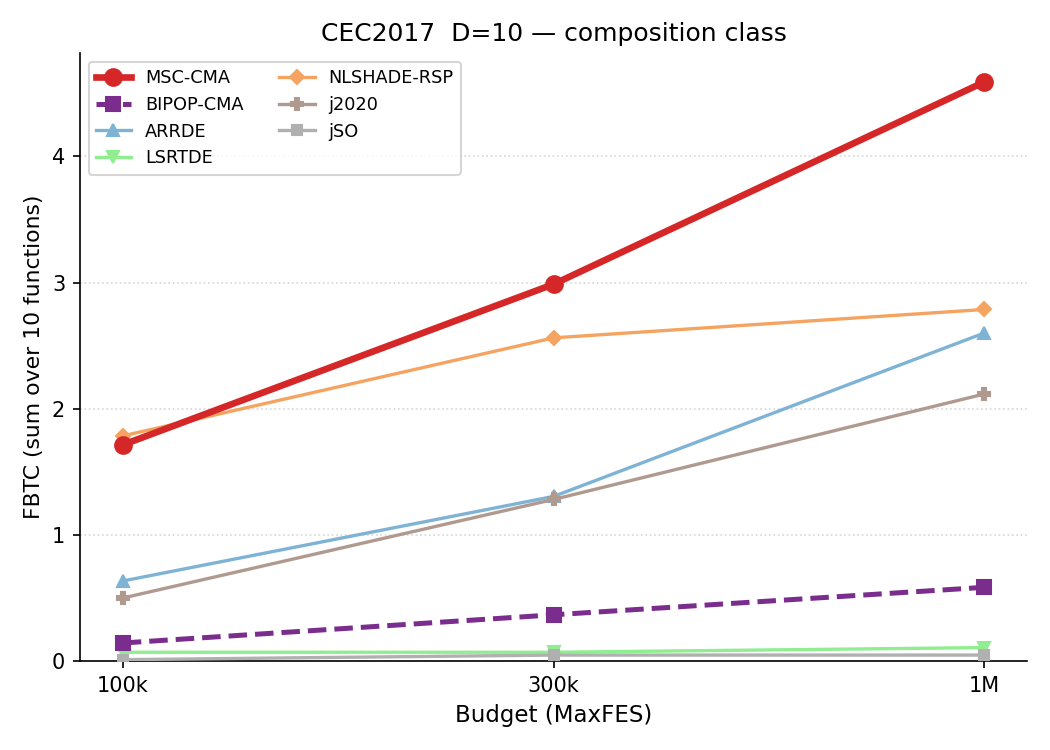
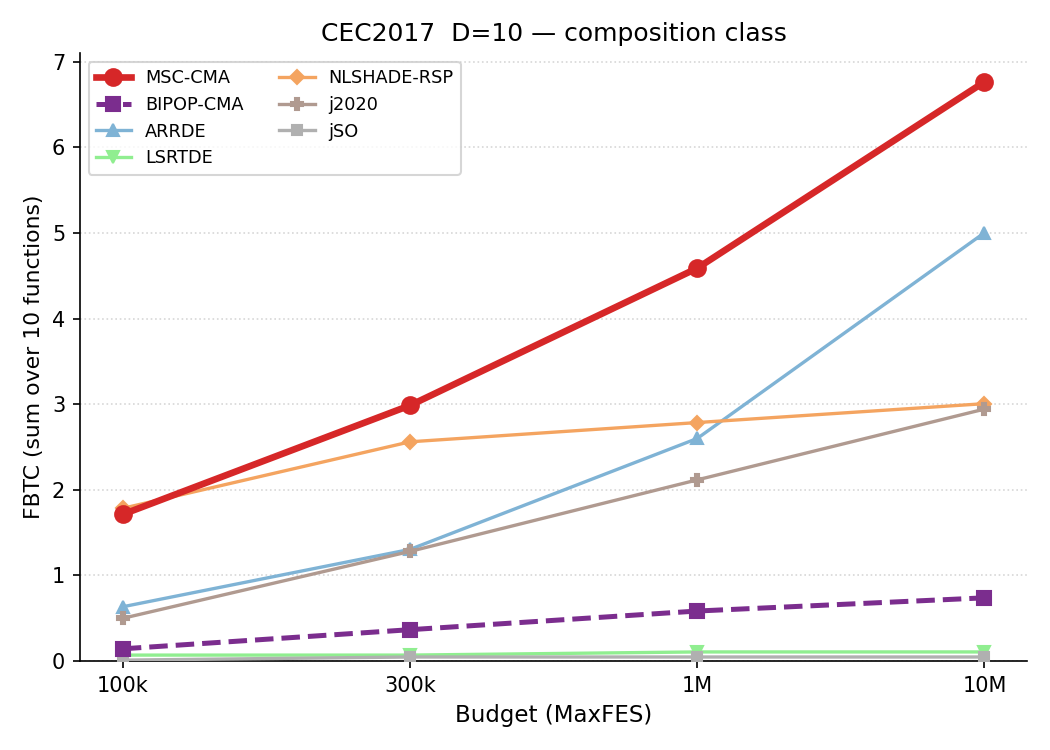
suite_report: regen cross-dimension rank/budget figures + READMEs (cec2014/cec2017/cec2020/cec2022)

diff --git a/experiments/cec2017/README.md b/experiments/cec2017/README.md
@@ -2,7 +2,35 @@
 
 Aggregated sums by function category, across dimensions. **Bold** = best in row. For simplicity the suite is presented per dimension.
 
-Official budgets — 10D: 100,000, 30D: 300,000.
+Official budgets — 2D: 20,000, 10D: 100,000, 30D: 300,000.
+
+## Ranking — D=2
+
+Parallel-coordinate rank on four aggregate metrics (worst-SUM, median-SUM, coverage, best-SUM). Best value at the top of each axis; MSC-CMA in red.
+
+<table>
+<tr>
+<td><img src="d2/rank_d2_basic.png" width="300" alt="Basic"></td>
+<td><img src="d2/rank_d2_composition.png" width="300" alt="Composition"></td>
+</tr>
+<tr>
+<td align="center">Basic</td>
+<td align="center">Composition</td>
+</tr>
+</table>
+
+## Budget scaling — D=2
+
+FBTC by budget, monotone envelope; higher is better.
+
+<table>
+<tr>
+<td><img src="d2/budget_d2_basic.png" width="300" alt="Basic"></td>
+</tr>
+<tr>
+<td align="center">Basic</td>
+</tr>
+</table>
 
 ## Ranking — D=10
 
@@ -76,10 +104,12 @@ FBTC by budget, monotone envelope; higher is better. Composition is shown as *me
 
 | Category | Dim | MSC-CMA | BIPOP-CMA |  | ARRDE | LSRTDE | NLSHADE | j2020 | jSO |
 |:--|:--:|--:|--:|:-:|--:|--:|--:|--:|--:|
+| Basic | 2 | 1.4e-5 | 2.33 |    | **0** | 2.33 | **0** | 0.111 | 2.02 |
 | Basic | 10 | 32.8 | 39.4 |    | 43.1 | **16.8** | 138 | 78.1 | 135 |
 | Basic | 30 | 373 | 997 |    | 2173 | **352** | 2370 | 3708 | 1746 |
 | Hybrid | 10 | 202 | 193 |    | 7.55 | 3.75 | 134 | 54.3 | **1.88** |
 | Hybrid | 30 | 2770 | 1672 |    | 657 | **64.3** | 23114 | 33761 | 422 |
+| Composition | 2 | 4.6e-6 | 0.444 |    | **0** | 200 | **0** | 1.18 | 100 |
 | Composition | 10 | **2152** | 2745 |    | 2317 | 2909 | 2193 | 2733 | 2844 |
 | Composition | 30 | 5288 | 5385 |    | **4983** | 5249 | 6189 | 8640 | 5575 |
 
@@ -87,10 +117,12 @@ FBTC by budget, monotone envelope; higher is better. Composition is shown as *me
 
 | Category | Dim | MSC-CMA | BIPOP-CMA |  | ARRDE | LSRTDE | NLSHADE | j2020 | jSO |
 |:--|:--:|--:|--:|:-:|--:|--:|--:|--:|--:|
+| Basic | 2 | **0** | **0** |    | **0** | **0** | **0** | 3.6e-5 | **0** |
 | Basic | 10 | 3.17 | **1.94** |    | 7.04 | 10.5 | 13.3 | 5.19 | 10.9 |
 | Basic | 30 | **28.9** | 146 |    | 1079 | 96.2 | 1625 | 2674 | 1162 |
 | Hybrid | 10 | 4.38 | 1.92 |    | 0.0315 | **0.0195** | 4.74 | 0.233 | 0.0426 |
 | Hybrid | 30 | 1096 | 718 |    | 84.7 | **4.71** | 6367 | 12514 | 81.2 |
+| Composition | 2 | 1.9e-7 | **0** |    | **0** | **0** | **0** | **0** | **0** |
 | Composition | 10 | **930** | 1812 |    | 1309 | 2508 | 1170 | 1480 | 2610 |
 | Composition | 30 | 4596 | **4271** |    | 4790 | 4927 | 4840 | 6046 | 4797 |
 
@@ -98,10 +130,12 @@ FBTC by budget, monotone envelope; higher is better. Composition is shown as *me
 
 | Category | Dim | MSC-CMA | BIPOP-CMA |  | ARRDE | LSRTDE | NLSHADE | j2020 | jSO |
 |:--|:--:|--:|--:|:-:|--:|--:|--:|--:|--:|
+| Basic | 2 | 3.48 | 2.84 |    | 2.33 | 49.9 | 2.33 | **2.27** | 2.69 |
 | Basic | 10 | 264 | 350 |    | 375 | **35.4** | 287 | 340 | 277 |
 | Basic | 30 | **1162** | 2135 |    | 3318 | 1230 | 5595 | 8310 | 2154 |
 | Hybrid | 10 | 423 | 698 |    | 236 | 156 | 614 | 463 | **10.8** |
 | Hybrid | 30 | 4934 | 4395 |    | 1529 | **372** | 185394 | 417453 | 1134 |
+| Composition | 2 | **2.0e-4** | 365 |    | 28.9 | 700 | 100 | 61.1 | 400 |
 | Composition | 10 | **2697** | 3472 |    | 2783 | 820474 | 3446 | 4231 | 3297 |
 | Composition | 30 | 6451 | 10157 |    | 6085 | **5599** | 8903 | 13911 | 5884 |
 
@@ -109,10 +143,12 @@ FBTC by budget, monotone envelope; higher is better. Composition is shown as *me
 
 | Category | Dim | MSC-CMA | BIPOP-CMA |  | ARRDE | LSRTDE | NLSHADE | j2020 | jSO |
 |:--|:--:|--:|--:|:-:|--:|--:|--:|--:|--:|
+| Basic | 2 | 8.238 | 7.859 |    | 8.856 | 7.552 | **8.923** | 6.976 | 8.192 |
 | Basic | 10 | 5.148 | **5.790** |    | 5.662 | 5.785 | 5.374 | 4.801 | 5.603 |
 | Basic | 30 | 3.115 | **4.620** |    | 4.348 | 4.449 | 2.104 | 3.125 | 4.298 |
 | Hybrid | 10 | 2.347 | 2.372 |    | 4.780 | 4.304 | 4.173 | 3.770 | **5.862** |
 | Hybrid | 30 | 0.300 | 0.345 |    | 1.058 | **2.565** | 0.383 | 0.212 | 1.035 |
+| Composition | 2 | 5.689 | 4.850 |    | **5.964** | 3.863 | 5.922 | 3.625 | 4.731 |
 | Composition | 10 | 1.714 | 0.143 |    | 0.635 | 0.070 | **1.785** | 0.500 | 0.011 |
 | Composition | 30 | **0.000** | **0.000** |    | **0.000** | **0.000** | **0.000** | **0.000** | **0.000** |
 
@@ -122,4 +158,4 @@ FBTC by budget, monotone envelope; higher is better. Composition is shown as *me
 Python 3.13.5 (anaconda3 env `intelpython`) · NumPy 2.3.1 · SciPy 1.15.3 · pycma 4.4.2 · minionpy 1.5.0.
 Hardware: Intel Xeon Platinum 8160 @ 2.10 GHz, 192 threads, 251 GiB RAM.
 
-*Generated 2026-06-28 by analysis/suite_report.py.*
+*Generated 2026-07-09 by analysis/suite_report.py.*

diff --git a/experiments/cec2020/README.md b/experiments/cec2020/README.md
@@ -89,6 +89,19 @@ Parallel-coordinate rank on four aggregate metrics (worst-SUM, median-SUM, cover
 </tr>
 </table>
 
+## Budget scaling — D=15
+
+FBTC by budget, monotone envelope; higher is better.
+
+<table>
+<tr>
+<td><img src="d15/budget_d15_composition.png" width="300" alt="Composition"></td>
+</tr>
+<tr>
+<td align="center">Composition</td>
+</tr>
+</table>
+
 ## Ranking — D=20
 
 Parallel-coordinate rank on four aggregate metrics (worst-SUM, median-SUM, coverage, best-SUM). Best value at the top of each axis; MSC-CMA in red.
@@ -193,4 +206,4 @@ FBTC by budget, monotone envelope; higher is better.
 Python 3.13.5 (anaconda3 env `intelpython`) · NumPy 2.3.1 · SciPy 1.15.3 · pycma 4.4.2 · minionpy 1.5.0.
 Hardware: Intel Xeon Platinum 8160 @ 2.10 GHz, 192 threads, 251 GiB RAM.
 
-*Generated 2026-06-28 by analysis/suite_report.py.*
+*Generated 2026-07-09 by analysis/suite_report.py.*

diff --git a/experiments/cec2014/README.md b/experiments/cec2014/README.md
@@ -122,4 +122,4 @@ FBTC by budget, monotone envelope; higher is better.
 Python 3.13.5 (anaconda3 env `intelpython`) · NumPy 2.3.1 · SciPy 1.15.3 · pycma 4.4.2 · minionpy 1.5.0.
 Hardware: Intel Xeon Platinum 8160 @ 2.10 GHz, 192 threads, 251 GiB RAM.
 
-*Generated 2026-06-28 by analysis/suite_report.py.*
+*Generated 2026-07-09 by analysis/suite_report.py.*

diff --git a/experiments/cec2022/README.md b/experiments/cec2022/README.md
@@ -105,4 +105,4 @@ Parallel-coordinate rank on four aggregate metrics (worst-SUM, median-SUM, cover
 Python 3.13.5 (anaconda3 env `intelpython`) · NumPy 2.3.1 · SciPy 1.15.3 · pycma 4.4.2 · minionpy 1.5.0.
 Hardware: Intel Xeon Platinum 8160 @ 2.10 GHz, 192 threads, 251 GiB RAM.
 
-*Generated 2026-06-28 by analysis/suite_report.py.*
+*Generated 2026-07-09 by analysis/suite_report.py.*